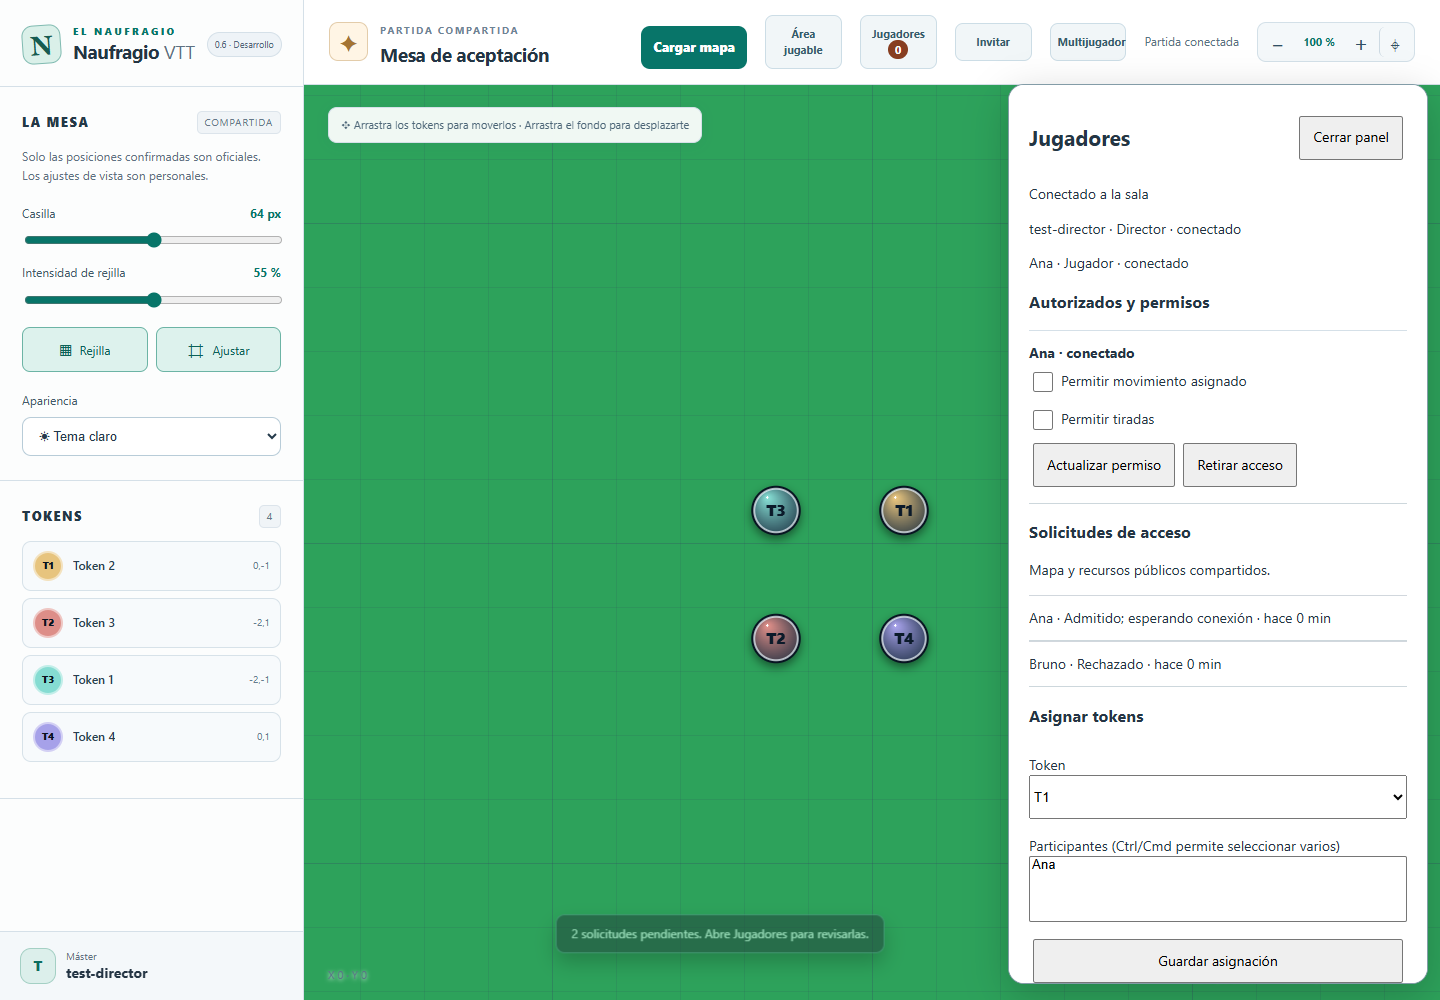
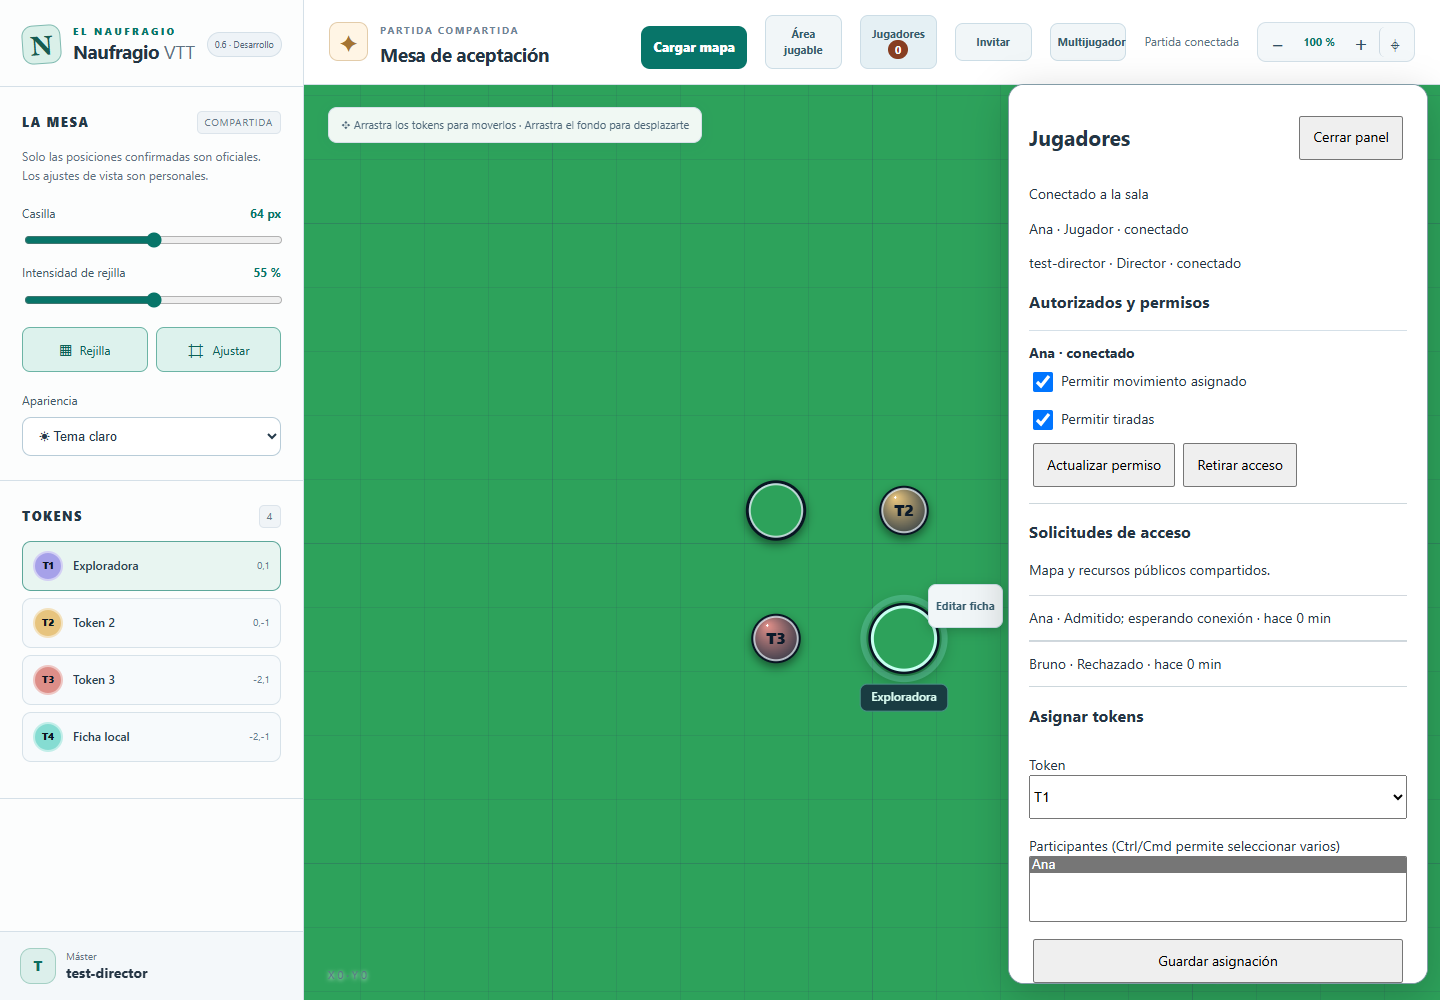
feat(tokens): edit selected pieces in context
Reuse public media and assignment authority without touching official IDs or positions. Preserve local portraits in the existing IndexedDB namespace and restore the local game on leaving a room.

diff --git a/frontend/multiplayer.js b/frontend/multiplayer.js
@@ -167,7 +167,7 @@ async function enter(selected, initialTokens, admissionCode, initialMedia) {
   await leave(); room = selected;
   await prepareMedia(selected, initialMedia);
   const current = ++generation;
-  board.enterShared({ canMove, move, identityName: session.user.username, roleLabel: config.roleLabels[session.user.role] });
+  board.enterShared({ canMove, move, canEdit: () => Boolean(room?.isOwner && client?.state.ready), identityName: session.user.username, roleLabel: config.roleLabels[session.user.role] });
   const destination = socketDestination(config);
   socket = io(destination.origin, { path: destination.path, autoConnect: false, forceNew: true, reconnection: true,
     auth: { token: session.token, roomId: room.room.id } });
@@ -351,9 +351,10 @@ action('createRoomForm', 'submit', async () => {
     tokens: local.tokens.map((token, index) => ({
       id: tokens[index].id, name: (token.name || token.code || ('Token ' + (index + 1))).slice(0, 64),
       color: /^#[0-9a-fA-F]{6}$/.test(token.color) ? token.color : '#85dcd2',
-      size: 1, imageId: null
+      size: token.size || 1, imageId: local.files[token.imageId] ? 'token:'+tokens[index].id : null
     })),
-    files: local.map && local.blob ? { map: local.blob } : {}
+    files: { ...(local.map && local.blob ? { map: local.blob } : {}),
+      ...Object.fromEntries(local.tokens.flatMap((token,index)=>local.files[token.imageId] ? [['token:'+tokens[index].id,local.files[token.imageId]]] : [])) }
   };
   const created = await api('/rooms', { method: 'POST', body: { name: get('roomName').value } });
   const selected = await api('/rooms/' + created.room.id);
@@ -413,6 +414,75 @@ get('assignedToken').addEventListener('change', () => {
   get('sharedTokenName').value = token.name;
   get('sharedTokenColor').value = token.color;
   get('sharedTokenSize').value = String(token.size);
+});
+
+let editingTokenId = null;
+get('editSelected').addEventListener('click', async () => {
+  const token = board.selected();
+  if (!token || room && (!room.isOwner || !client?.state.ready)) return;
+  editingTokenId = token.id;
+  get('contextCode').value = token.code; get('contextName').value = token.name;
+  get('contextColor').value = token.color; get('contextSize').value = String(token.size || 1);
+  get('contextPortrait').value = ''; get('contextRemovePortrait').checked = false;
+  get('contextAssignment').hidden = !room;
+  get('tokenEditStatus').textContent = '';
+  if (room) {
+    try { await refreshMembers(); } catch(error) { status(describe(error),true); return; }
+    get('contextUsers').replaceChildren(...members.filter(m=>m.userId!==session.user.id).map(member=>{
+      const option = new Option(member.username,member.userId);
+      option.selected = rights?.assignments?.some(a=>a.tokenId===token.id && a.userId===member.userId) || false;
+      return option;
+    }));
+    renderContextPermissions();
+  }
+  get('tokenDialog').showModal();
+});
+function renderContextPermissions() {
+  get('contextPermissions').replaceChildren();
+  for (const option of get('contextUsers').selectedOptions) {
+    const member = members.find(m=>m.userId===option.value); if (!member) continue;
+    const section = document.createElement('fieldset'); const legend = document.createElement('legend'); legend.textContent = member.username; section.append(legend);
+    for (const [key,text] of [['moveAssignedTokens','Movimiento de fichas asignadas'],['diceAllowed','Tiradas públicas']]) {
+      const label = document.createElement('label'), checkbox = document.createElement('input');
+      checkbox.type = 'checkbox'; checkbox.dataset.userId = member.userId; checkbox.dataset.permission = key; checkbox.checked = member.permissions[key];
+      label.append(checkbox,document.createTextNode(text)); section.append(label);
+    }
+    get('contextPermissions').append(section);
+  }
+}
+get('contextUsers').addEventListener('change',renderContextPermissions);
+get('cancelToken').addEventListener('click', () => get('tokenDialog').close());
+get('contextTokenForm').addEventListener('submit', async event => {
+  event.preventDefault();
+  const id = editingTokenId, current = generation, target = room?.room.id;
+  if (!id || room && !room.isOwner) return;
+  const name = get('contextName').value.trim(), color = get('contextColor').value, size = Number(get('contextSize').value);
+  if (!name || name.length>64 || !/^#[0-9a-fA-F]{6}$/.test(color) || !Number.isFinite(size) || size<.25 || size>4) return;
+  get('saveContextToken').disabled = true;
+  try {
+    const portrait = get('contextPortrait').files?.[0], remove = get('contextRemovePortrait').checked;
+    if (portrait) await validateImage(portrait,2*1024*1024);
+    if (current !== generation || target !== room?.room.id) throw new Error('DIRECTOR_NOT_READY');
+    if (!room) await board.editLocalToken(id,{name,color,size},portrait,remove);
+    else {
+      const token = mediaSource?.tokens.find(t=>t.id===id); if (!token) throw new Error('TOKEN_NOT_FOUND');
+      const previous = structuredClone(mediaSource);
+      Object.assign(token,{name,color,size});
+      if (portrait) { token.imageId = 'token:'+id; mediaSource.files[token.imageId] = portrait; }
+      else if (remove && token.imageId) { delete mediaSource.files[token.imageId]; token.imageId = null; }
+      try { await saveMedia(); } catch(error) { mediaSource = previous; await mediaStore.save(previous); throw error; }
+      await client.assign(id,[...get('contextUsers').selectedOptions].map(o=>o.value));
+      const updates = new Map();
+      for (const checkbox of get('contextPermissions').querySelectorAll('input')) {
+        if (!updates.has(checkbox.dataset.userId)) updates.set(checkbox.dataset.userId,{});
+        updates.get(checkbox.dataset.userId)[checkbox.dataset.permission] = checkbox.checked;
+      }
+      for (const [userId,permissions] of updates) await api(`/rooms/${target}/members/${userId}`,{method:'PATCH',body:{permissions}});
+      await refreshMembers();
+    }
+    get('tokenDialog').close();
+  } catch(error) { get('tokenEditStatus').textContent = describe(error); }
+  finally { get('saveContextToken').disabled = false; }
 });
 
 let candidate = null, candidateUrl = null, candidateVersion = 0, mapBusy = false;

diff --git a/app.js b/app.js
@@ -53,7 +53,7 @@
         base.tokens = stored.tokens.slice(0, 100).filter((token) => token && typeof token === "object").map((token, index) => ({
           id: typeof token.id === "string" && token.id.length < 80 ? token.id : "imported-" + index,
           code: typeof token.code === "string" ? token.code.slice(0, 4) : "T" + (index + 1),
-          name: typeof token.name === "string" ? token.name.slice(0, 32) : "Token " + (index + 1),
+          name: typeof token.name === "string" ? token.name.slice(0, 64) : "Token " + (index + 1),
           color: /^#[0-9a-fA-F]{6}$/.test(token.color) ? token.color : PALETTE[0],
           size: clamp(finiteOr(token.size,1),.25,4),
           imageId: token.imageId === 'token:' + token.id ? token.imageId : null,
@@ -342,6 +342,17 @@
       showToast("No se pudo recuperar el mapa local.");
     }
   }
+  async function restorePortraits() {
+    const tokens = state.tokens;
+    for (const token of tokens) if (token.imageId) {
+      try {
+        const blob = await assetRequest('get',null,token.imageId);
+        if (!blob) continue;
+        const image = await decodeMapImage(blob);
+        if (!sharedMode && state.tokens === tokens) { sharedTokenImages.set(token.id,image); draw(); }
+      } catch { /* Missing optional portraits do not replace local game data. */ }
+    }
+  }
 
   function mapScreenRect() {
     if (!state.map || !mapImage) return null;
@@ -617,6 +628,13 @@
     for (const token of state.tokens) if (token.id !== selectedId) drawToken(token);
     const selected = selectedToken();
     if (selected) drawToken(selected);
+    const edit = document.getElementById('editSelected');
+    edit.hidden = !selected || sharedMode && !multiplayer?.canEdit?.();
+    if (!edit.hidden) {
+      const p = worldToScreen((selected.x+.5)*state.cellSize,(selected.y+.5)*state.cellSize);
+      edit.style.left = clamp(p.x+24,4,Math.max(4,width-130))+'px';
+      edit.style.top = clamp(p.y-54,4,Math.max(4,height-48))+'px';
+    }
     refs.zoomValue.textContent = Math.round(state.zoom * 100) + " %";
   }
 
@@ -888,6 +906,9 @@
     }
     const token = selectedToken();
     if (!token) return;
+    if (event.key === 'Enter' || event.key.toLowerCase() === 'e') {
+      event.preventDefault(); if (!sharedMode || multiplayer?.canEdit?.()) document.getElementById('editSelected').click(); return;
+    }
     const amount = state.snap ? 1 : .25;
     const movement = { ArrowUp: [0, -amount], ArrowDown: [0, amount], ArrowLeft: [-amount, 0], ArrowRight: [amount, 0] };
     if (movement[event.key]) {
@@ -1030,7 +1051,23 @@
   refreshControls();
   resizeCanvas();
   void restoreMapImage();
+  void restorePortraits();
   window.NaufragioBoard = Object.freeze({
+    selected: () => selectedToken() && structuredClone(selectedToken()),
+    async editLocalToken(id, values, portrait, removePortrait) {
+      if (!editable()) throw new Error('FORBIDDEN');
+      const token = state.tokens.find(t=>t.id===id);
+      if (!token) throw new Error('TOKEN_NOT_FOUND');
+      if (!insideBounds(token,values.size,state.bounds)) throw new Error('TOKENS_OUTSIDE_BOARD');
+      let image = null;
+      if (portrait) image = await decodeMapImage(portrait);
+      if (portrait) await assetRequest('put',portrait,'token:'+id);
+      else if (removePortrait) await assetRequest('delete',null,'token:'+id);
+      Object.assign(token,values);
+      if (portrait) { token.imageId = 'token:'+id; sharedTokenImages.set(id,image); }
+      else if (removePortrait) { token.imageId = null; sharedTokenImages.delete(id); }
+      refreshTokenList(); refreshSelectionEditor(); save(); draw();
+    },
     bounds: () => ({mode:state.boundsMode,bounds:structuredClone(state.bounds)}),
     setBounds(mode, bounds) {
       if (sharedMode) throw new Error('FORBIDDEN');
@@ -1057,8 +1094,13 @@
       if (sharedMode) throw new Error("LOCAL_BOARD_REQUIRED");
       const map = state.map ? structuredClone(state.map) : null;
       const blob = map ? await assetRequest("get") : null;
+      const files = {};
+      for (const token of state.tokens) if (token.imageId) {
+        const portrait = await assetRequest('get',null,token.imageId);
+        if (portrait instanceof Blob) files[token.imageId] = portrait;
+      }
       return { map: map && blob instanceof Blob ? map : null, blob: blob instanceof Blob ? blob : null,
-        tokens: structuredClone(state.tokens) };
+        tokens: structuredClone(state.tokens), files };
     },
     tokens: () => structuredClone(state.tokens),
     sharedView: () => sharedMode ? { map: state.map && structuredClone(state.map), portraits: [...sharedTokenImages.keys()] } : null,
@@ -1117,7 +1159,7 @@
       sharedMode = false; multiplayer = null; sharedVisuals.clear(); sharedTokenImages.clear(); mapImage = null;
       Object.assign(state, localBackup); localBackup = null;
       mapLoadGeneration++; selectedId = null; drag = null; document.body.dataset.mode = "local";
-      canvas.classList.remove("dragging"); refreshControls(); void restoreMapImage();
+      canvas.classList.remove("dragging"); refreshControls(); void restoreMapImage(); void restorePortraits();
     }
   });
   window.dispatchEvent(new Event("naufragio:board:ready"));

diff --git a/backend/scripts/browser-phase10.js b/backend/scripts/browser-phase10.js
@@ -31,12 +31,19 @@ try {
   }
   const [director, one, two] = await Promise.all(contexts.map(c=>c.newPage()));
   await director.goto(site); await director.waitForFunction(()=>window.NaufragioBoard);
[1 lines of base64/hex data omitted]
+  const localToken = await director.evaluate(()=>window.NaufragioBoard.tokens()[0]);
+  await director.locator(`[data-token-id="${localToken.id}"]`).click(); await director.click('#editSelected');
+  await director.fill('#contextName','Ficha local'); await director.fill('#contextSize','1.25');
+  await director.setInputFiles('#contextPortrait',{name:'local-portrait.png',mimeType:'image/png',buffer:png});
+  await director.click('#saveContextToken'); await director.waitForFunction(()=>!document.getElementById('tokenDialog').open);
+  await director.reload(); await director.waitForFunction(()=>window.NaufragioBoard?.tokens()[0]?.size===1.25);
+  const localTokens = await director.evaluate(()=>window.NaufragioBoard.tokens());
   await director.click('#openMultiplayer'); await director.check('#trustDestination');
   await director.fill('#loginUser','test-director'); await director.fill('#loginPassword',password); await director.locator('#loginForm button').click();
   await director.waitForFunction(()=>!document.getElementById('signedIn').hidden);
   await director.fill('#roomName','Mesa de aceptación'); await director.locator('#createRoomForm button').click();
   await director.waitForFunction(()=>document.getElementById('roomState').textContent.includes('Partida conectada'));
[1 lines of base64/hex data omitted]
   await director.click('#openMap');
   await director.setInputFiles('#mapCandidate',{name:'test-map.png',mimeType:'image/png',buffer:png});
   await director.waitForFunction(()=>!document.getElementById('useMap').disabled);
@@ -71,12 +78,29 @@ try {
   await director.waitForFunction(()=>document.getElementById('pendingCount').textContent==='0');
   assert.equal(app.rooms.members(owner.token,roomId).length,2);
   assert.match(await director.locator('#connectedPlayers').innerText(),/Ana/);
-
+  await director.click('#closePlayers');
+  const first = await director.evaluate(()=>window.NaufragioBoard.tokens()[0]);
+  await director.locator(`[data-token-id="${first.id}"]`).click();
+  await director.locator('#boardCanvas').focus(); await director.keyboard.press('Enter');
+  await director.waitForFunction(()=>document.getElementById('tokenDialog').open);
+  await director.fill('#contextName','Exploradora'); await director.fill('#contextSize','1.5');
+  await director.setInputFiles('#contextPortrait',{name:'portrait.png',mimeType:'image/png',buffer:png});
+  const ana = app.rooms.members(owner.token,roomId).find(m=>m.username==='Ana');
+  await director.selectOption('#contextUsers',ana.userId);
+  await director.locator('#contextPermissions input[data-permission="moveAssignedTokens"]').check();
+  await director.locator('#contextPermissions input[data-permission="diceAllowed"]').check();
+  await director.click('#saveContextToken'); await director.waitForFunction(()=>!document.getElementById('tokenDialog').open);
+  await one.waitForFunction(id=>window.NaufragioBoard.tokens().find(t=>t.id===id)?.name==='Exploradora',first.id);
+  const updated = await director.evaluate(id=>window.NaufragioBoard.tokens().find(t=>t.id===id),first.id);
+  assert.deepEqual([updated.id,updated.x,updated.y],[first.id,first.x,first.y]);
+  await director.click('#openPlayers');
   await mkdir(resolve('../docs/evidencia-fase10'),{recursive:true});
   await director.screenshot({path:resolve('../docs/evidencia-fase10/jugadores-escritorio.png')});
   await one.click('#openPlayers'); await one.screenshot({path:resolve('../docs/evidencia-fase10/jugadores-movil.png')});
   assert.equal(await one.locator('#playersAdministration').isVisible(),false);
   await one.reload(); await one.waitForFunction(()=>document.getElementById('roomState').textContent.includes('Partida conectada'));
+  await director.click('#closePlayers'); await director.click('#openMultiplayer'); await director.click('#leaveRoom');
+  assert.deepEqual(await director.evaluate(()=>window.NaufragioBoard.tokens()),localTokens,'shared editing preserves the original local game');
   assert.deepEqual(errors,[]);
   console.log(JSON.stringify({result:'pass',qrClosedRequests:2,approved:1,rejected:1,guestReload:true,privateAdministration:true,pageErrors:errors.length}));
 } finally {

diff --git a/index.html b/index.html
@@ -123,6 +123,7 @@
       </header>
       <div class="workspace" id="workspace">
         <canvas id="boardCanvas" tabindex="0" aria-label="Tablero virtual con rejilla y tokens. Arrastra los tokens para moverlos."></canvas>
+        <button id="editSelected" type="button" class="secondary-button contextual-edit" hidden>Editar ficha</button>
         <div class="board-hint" id="boardHint" aria-hidden="true"><span class="hint-spark">✥</span> Arrastra los tokens para moverlos <span class="hint-separator">·</span> Arrastra el fondo para desplazarte</div>
         <div class="board-footer"><span id="coordinates">X 0 · Y 0</span><span>Rueda para zoom · Flechas para mover un token</span></div>
       </div>
@@ -168,6 +169,23 @@
       <label>Altura (casillas)<input id="boundsHeight" type="number" step="any" min="1" max="200" value="20" required></label>
       <button type="submit">Guardar límites</button>
     </form><p id="boundsStatus" role="status"></p>
+  </dialog>
+  <dialog id="tokenDialog" class="multiplayer-dialog" aria-labelledby="tokenTitle">
+    <header><h2 id="tokenTitle">Editar ficha</h2><button type="button" id="cancelToken">Cancelar</button></header>
+    <form id="contextTokenForm" class="mp-form">
+      <label>Código visible<input id="contextCode" readonly></label>
+      <label>Nombre<input id="contextName" maxlength="64" required></label>
+      <label>Color<input id="contextColor" type="color" required></label>
+      <label>Tamaño (casillas)<input id="contextSize" type="number" min="0.25" max="4" step="0.25" required></label>
+      <label>Retrato (PNG, JPEG o WebP, máximo 2 MiB)<input id="contextPortrait" type="file" accept="image/png,image/jpeg,image/webp"></label>
+      <label><input id="contextRemovePortrait" type="checkbox"> Quitar retrato</label>
+      <section id="contextAssignment" hidden>
+        <label>Jugadores asignados (selección múltiple)<select id="contextUsers" multiple size="4"></select></label>
+        <p>Los permisos se aplican a cada participante de la sala y al movimiento de sus fichas asignadas.</p>
+        <div id="contextPermissions"></div>
+      </section>
+      <button type="submit" id="saveContextToken">Guardar ficha</button>
+    </form><p id="tokenEditStatus" role="status"></p>
   </dialog>
   <dialog id="identityDialog" class="identity-dialog" aria-labelledby="identityTitle">
     <form id="identityForm">

diff --git a/styles.css b/styles.css
@@ -268,5 +268,8 @@ body[data-mode=shared] #changeIdentity { display: none; }
 #mapPreview { display: block; max-width: 100%; max-height: 250px; object-fit: contain; margin: 12px auto; }
 #mapPreview[hidden] { display: none; }
 #mapDialog button, #mapDialog input { min-height: 44px; }
+.contextual-edit { position: absolute; z-index: 5; min-height: 44px; box-shadow: 0 3px 12px #0003; }
+.contextual-edit[hidden] { display: none; }
+#tokenDialog input, #tokenDialog select, #tokenDialog button { min-height: 44px; }
 .table-panel input:not([type=checkbox]), .table-panel select { width: 100%; min-height: 44px; }
 .table-panel input[type=checkbox] { width: 20px; height: 20px; vertical-align: middle; margin-right: 8px; }
